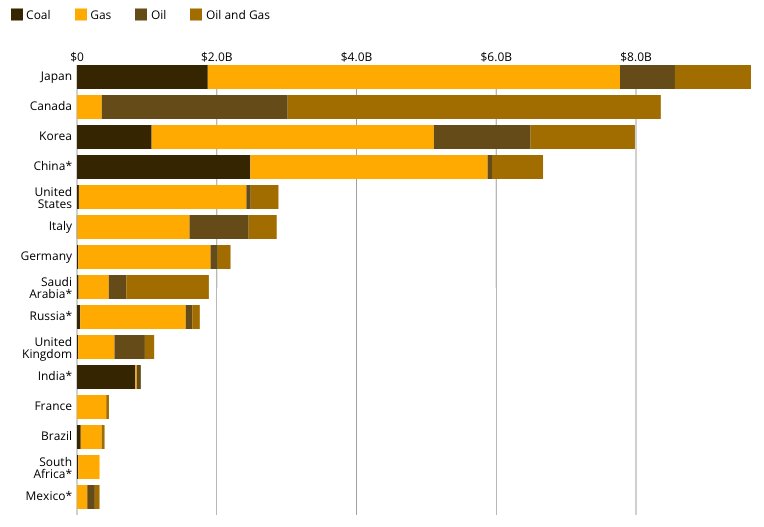
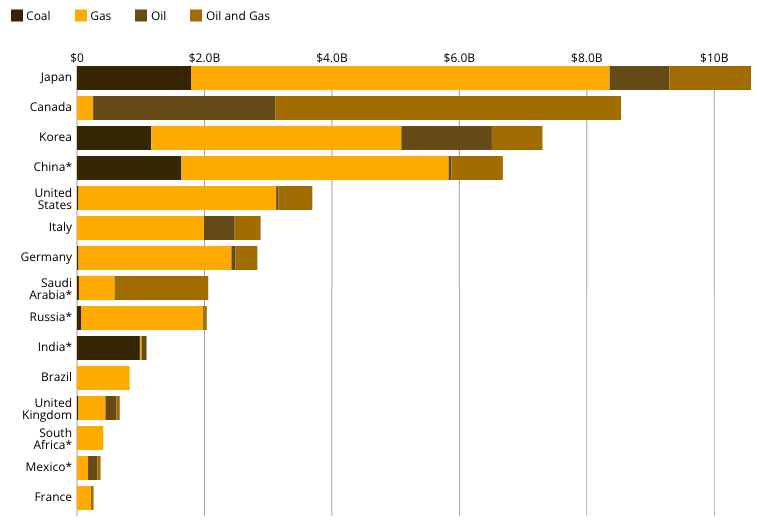
image updates

diff --git a/src/Intro/index.js b/src/Intro/index.js
@@ -192,7 +192,7 @@ export default function Intro(props) {
        : null}
        {render ? <Fragment>
         <div className="introText" style={{ top: mobileLayout ? contentHeight / 2.5 : contentHeight / 2}}>
-          <h1 className={classNames({visible: topVisible})}>A public database for public finance </h1>
+          <h1 className={classNames({visible: topVisible})}>A <span className="blue">public</span> database for <span className="blue">public</span> finance </h1>
           <p  className={classNames({visible: topVisible})}>G20 governments and the major multilateral development banks (MDBs) provide over USD $100 billion each year in international finance for energy projects. This public money has an outsized influence on what kinds of energy projects get built. Unfortunately, for every dollar going to the clean energy we need to build a just and liveable future, almost two times more is still flowing to fossil fuels.
           </p>
           <p  className={classNames({visible: topVisible})}>The Public Finance for Energy Database is the only resource tracking these flows across more than one institution. At 15,000 transactions and counting, totalling over $2 trillion, our data is free and publicly available  to make sure G20 governments and MDBs can be held accountable to their promises to build a liveable and just future.
@@ -219,7 +219,7 @@ export default function Intro(props) {
           <h3 className="chart-title">
             G20 and MDB public finance for fossil fuels, clean, and other energy, 2013-2021, in USD Billions
           </h3>
-          <img src={publicFinance} alt="Chart of public finance between 2013 and 2021" />
+          <img className="intro-graph" src={publicFinance} alt="Chart of public finance between 2013 and 2021" />
           <p className='intro-caption'>Despite governments’ long lasting commitments to end fossil fuel subsidies and align financial flows with the Paris climate goals, since 2013 public finance flows to fossil fuel projects have only slightly decreased and support for clean energy has not increased to the extent needed.</p>
           </div>
           <p>
@@ -229,15 +229,17 @@ export default function Intro(props) {
             To get on the pathway to a globally just energy transition in line with 1.5°C, we need wealthy G20 governments to do much more as well, including rapidly phasing out their fossil fuel production at home, ensuring their public finance institutions uphold comprehensive human rights due diligence across for clean energy projects, and providing their fair share of climate finance, loss and damage finance, and debt cancellation. 
           </p>
 
-          <h3 className="chart-title">Top 15 G20 countries for international public finance for fossil fuels, annual average 2018-2021, USD billions</h3>
+          <h3 className="chart-title">Top 15 G20 countries for international public finance for fossil fuels, annual average 2019-2021, USD billions</h3>
 
-          <img src={g20} alt="Chart of top 15 G20 public finance for fossil fuels" />
+          <img className="intro-graph" src={g20} alt="Chart of top 15 G20 public finance for fossil fuels" />
+          <p className='intro-caption'>Canada, Japan, and Korea are the largest current providers of international public finance for fossil fuels out of the G20 countries, bankrolling more than $10 billion a year on average 2018-2020.</p>
 
           <h3 className="chart-title">
-            Multilateral Development Bank finance for fossil fuels, annual average 2018-2021, USD billions
+            Multilateral Development Bank finance for fossil fuels, annual average 2019-2021, USD billions
           </h3>
-          <img src={mdb} alt="Chart of comparison of fossil fuel funding by multilateral development banks" />
-          <p className="image-caption">Despite governments’ long lasting commitments to end fossil fuel subsidies and align financial flows with the Paris climate goals, since 2013 public finance flows to fossil fuel projects have only slightly decreased and support for clean energy has not increased to the extent needed.</p>
+          <img className="intro-graph" src={mdb} alt="Chart of comparison of fossil fuel funding by multilateral development banks" />
+          <p className="intro-caption">Among MDBs, the World Bank Group provides the most financing for fossil fuel projects each year.
+</p>
 
           <p>
             Despite these trends,  public pressure for climate action means a breakthrough is on the horizon. As of 2021, most G20 countries have policies to end their coal finance and at the 2021 global climate conference in Glasgow, 34 countries and 5 institutions signed a joint commitment to end their international support for oil and gas by the end of 2022 and instead fully prioritize their public finance for clean energy. We are tracking their progress on these promises <Link to="/tracker">here</Link>. We need to ensure countries get on track to keep their promise without loopholes, and ensure other countries follow-suit.

diff --git a/src/Intro/styles.scss b/src/Intro/styles.scss
@@ -38,6 +38,9 @@
         opacity: 1;
       }
     }
+    .blue {
+      color:#4057C9;
+    }
   }
 
   h1 {
@@ -156,6 +159,14 @@
     .chart-title {
       text-align: left;
       margin-bottom:5px;
+    }
+    .intro-graph {
+      max-width:100%;
+    }
+    .intro-caption {
+      font-size:.8em;
+      font-style:italic;
+      padding:0 6% 0 4%;
     }
   }
 
